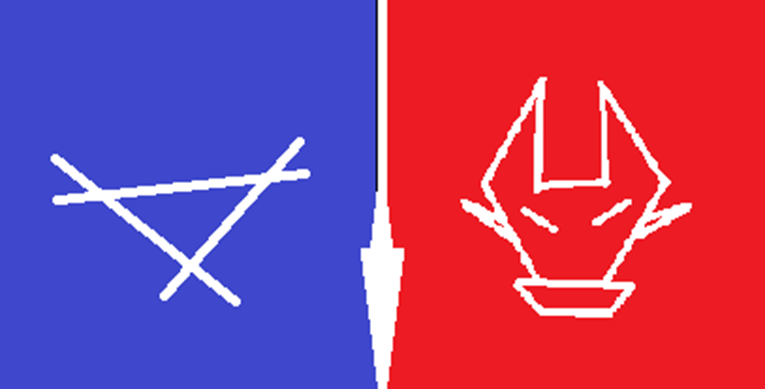
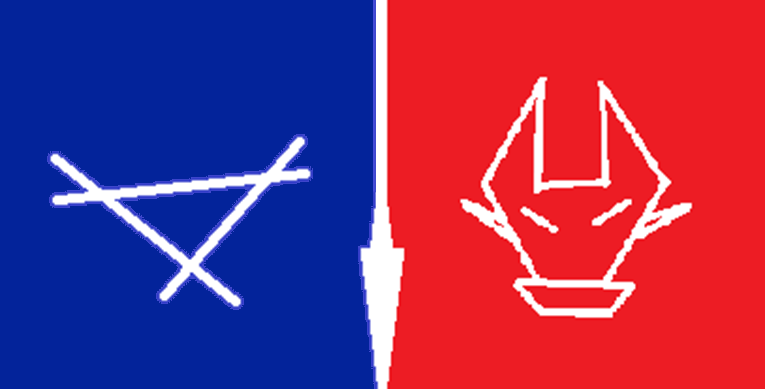
updated media files delaware and wvirginia and updated medialibrary pre installed items

diff --git a/Mihcelle.Hwavmvid/Server/Controllers/InstallationController.cs b/Mihcelle.Hwavmvid/Server/Controllers/InstallationController.cs
@@ -189,6 +189,20 @@ namespace Mihcelle.Hwavmvid.Server.Controllers
             await this.context.Applicationmediafiles.AddAsync(vwäctvyrginia);
             await this.context.SaveChangesAsync();
 
+            var delarewarecity = new Applicationmediafile()
+            {
+                Siteid = site.Id,
+                Filename = "delaware_city.png",
+                Fileextension = ".png",
+                Filesize = 0,
+                Filewidth = 765,
+                Fileheight = 389,
+                Createdon = DateTime.Now,
+            };
+
+            await this.context.Applicationmediafiles.AddAsync(delarewarecity);
+            await this.context.SaveChangesAsync();
+
         }
 
         private void Updatedconnectionstring(string connectionstring)

diff --git a/Mihcelle.Hwavmvid/Server/Modules/Mihcelle.Hwavmvid.Modules.Htmleditor/Applicationdbcontext.cs b/Mihcelle.Hwavmvid/Server/Modules/Mihcelle.Hwavmvid.Modules.Htmleditor/Applicationdbcontext.cs
@@ -111,7 +111,7 @@ namespace Mihcelle.Hwavmvid.Modules.Htmleditor
                 string htmlstring_2 = $"<div class=\"row\">\n" +
 
                                             $"<div class=\"col-sm-3\">\n" +
-                                                $"\t<img src=\"/medialibrary/usaflag.png\" title=\"mihcellehwavmvid\" alt=\"whenever mihcellehwavmvid\" class=\"img-fluid\" />\n" +
+                                                $"\t<img src=\"/medialibrary/delaware_city.png\" title=\"mihcellehwavmvid\" alt=\"whenever mihcellehwavmvid\" class=\"img-fluid\" />\n" +
                                             $"</div>\n" +
 
                                             $"<div class=\"col-sm-9\">\n" +
